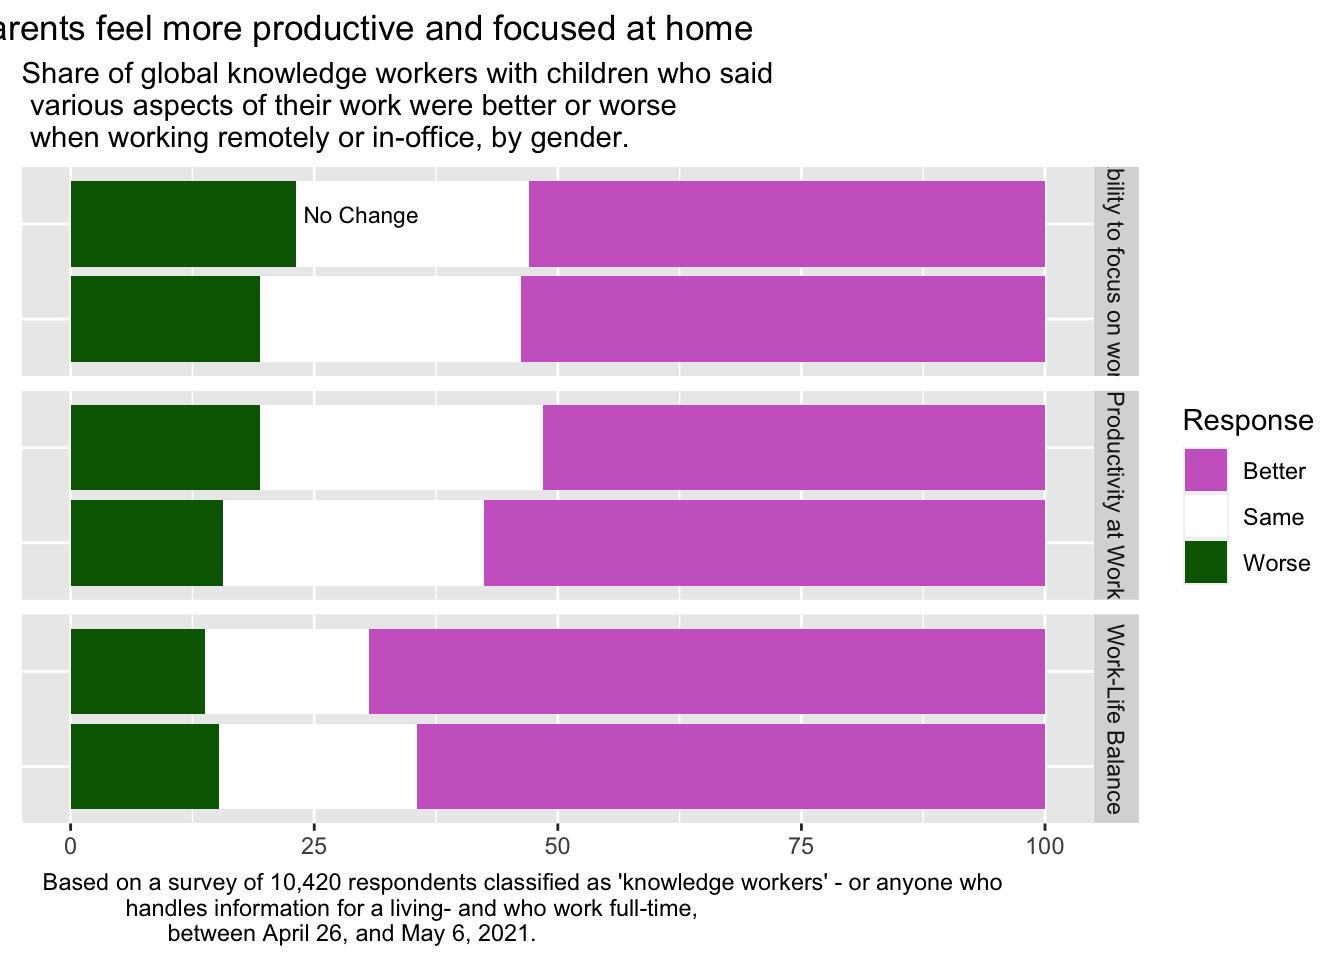
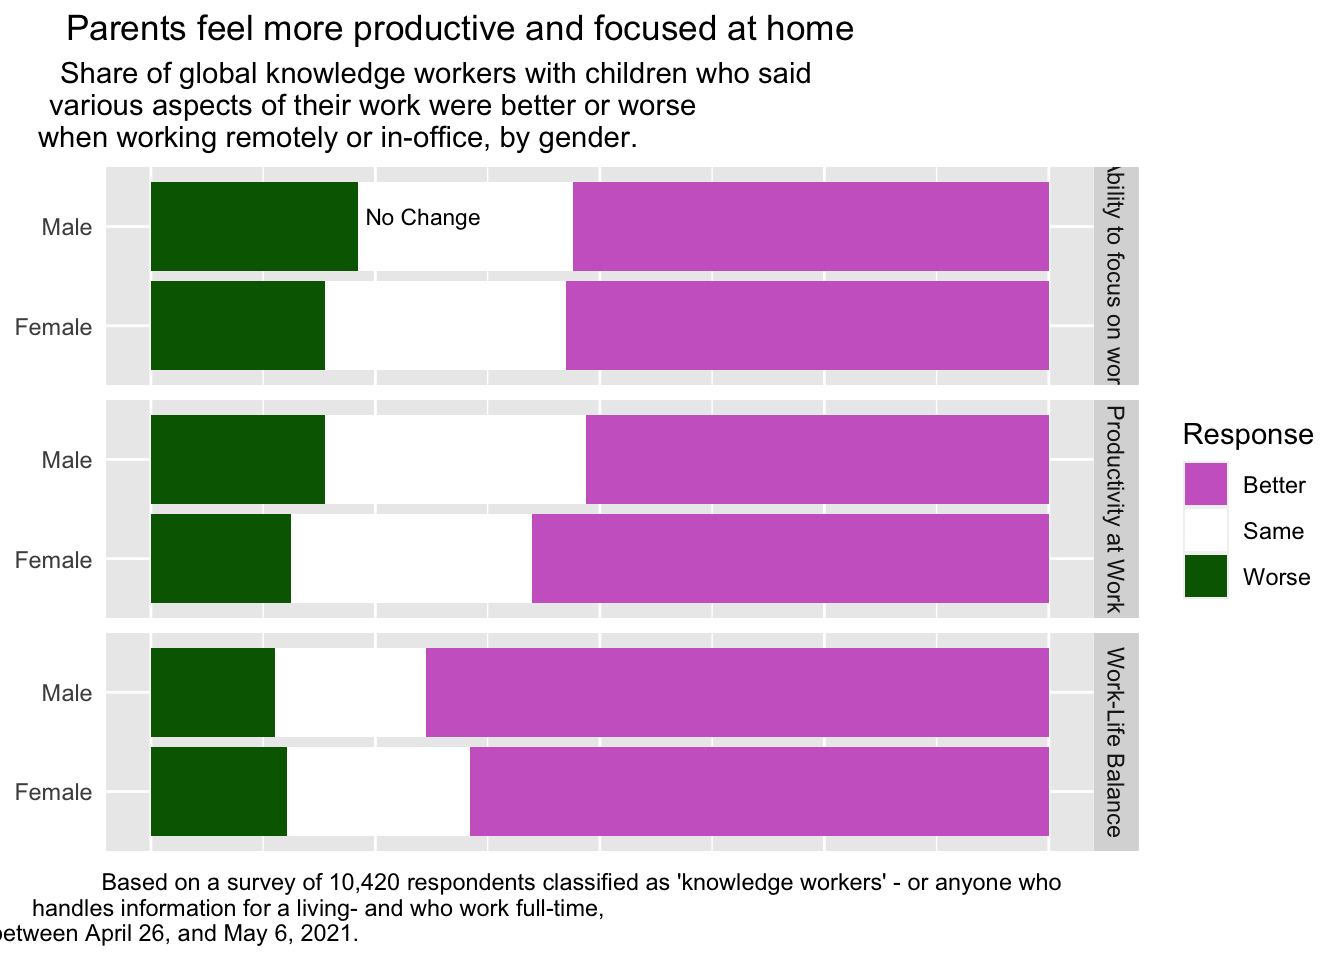
viz3

Changed region(s): [[0.0, 0.0, 0.875, 1.0], [0.875, 0.4062, 1.0, 0.625]]

diff --git a/docs/visualization_exercise.html b/docs/visualization_exercise.html
@@ -269,24 +269,26 @@ The following object is masked from 'package:readr':
 <p><img src="visualization_exercise_files/figure-html/unnamed-chunk-2-1.png" class="img-fluid" width="672"></p>
 </div>
 </div>
-<p>##Lets change the colors and resort the data to fix.</p>
+</section>
+<section id="lets-change-the-colors-and-play-around-with-those-titles-and-axes" class="level2">
+<h2 class="anchored" data-anchor-id="lets-change-the-colors-and-play-around-with-those-titles-and-axes">##Lets change the colors and play around with those titles and axes</h2>
 <div class="cell">
 <div class="sourceCode cell-code" id="cb9"><pre class="sourceCode r code-with-copy"><code class="sourceCode r"><span id="cb9-1"><a href="#cb9-1" aria-hidden="true" tabindex="-1"></a><span class="co">#Lets add the caption </span></span>
 <span id="cb9-2"><a href="#cb9-2" aria-hidden="true" tabindex="-1"></a><span class="fu">library</span>(shadowtext)</span>
-<span id="cb9-3"><a href="#cb9-3" aria-hidden="true" tabindex="-1"></a></span>
-<span id="cb9-4"><a href="#cb9-4" aria-hidden="true" tabindex="-1"></a></span>
-<span id="cb9-5"><a href="#cb9-5" aria-hidden="true" tabindex="-1"></a>p2 <span class="ot">&lt;-</span> p <span class="sc">+</span> <span class="fu">geom_shadowtext</span>(<span class="at">data=</span><span class="fu">subset</span>(Visualization_Data, Response<span class="sc">==</span><span class="st">"Same"</span> <span class="sc">&amp;</span> Gender<span class="sc">==</span><span class="st">"Male"</span> <span class="sc">&amp;</span> Question<span class="sc">==</span><span class="st">"Ability to focus on work"</span>),<span class="fu">aes</span>(<span class="at">y =</span> Percent, <span class="at">x =</span> Gender, <span class="at">label=</span><span class="st">"No Change"</span>), <span class="at">hjust=</span><span class="dv">0</span>, <span class="at">nudge_x=</span><span class="fl">0.1</span>,<span class="at">color=</span><span class="st">"black"</span>,<span class="at">bg.colour=</span><span class="st">"white"</span>, <span class="at">size=</span><span class="dv">3</span>) <span class="sc">+</span>   <span class="fu">scale_fill_manual</span>(<span class="at">values=</span><span class="fu">c</span>(<span class="st">"orchid3"</span>,</span>
-<span id="cb9-6"><a href="#cb9-6" aria-hidden="true" tabindex="-1"></a>                             <span class="st">"white"</span>,</span>
-<span id="cb9-7"><a href="#cb9-7" aria-hidden="true" tabindex="-1"></a>                             <span class="st">"darkgreen"</span>)) <span class="sc">+</span> <span class="fu">theme</span>(<span class="at">axis.title.x=</span><span class="fu">element_blank</span>(), <span class="at">axis.title.y=</span><span class="fu">element_blank</span>(), <span class="at">plot.title=</span><span class="fu">element_text</span>(<span class="at">hjust=</span><span class="sc">-</span><span class="fl">0.2</span>), <span class="at">plot.caption=</span><span class="fu">element_text</span>(<span class="at">hjust =</span> <span class="fl">0.2</span>), <span class="at">axis.text.y=</span><span class="fu">element_blank</span>(), <span class="at">axis.ticks.y=</span><span class="fu">element_blank</span>())</span>
-<span id="cb9-8"><a href="#cb9-8" aria-hidden="true" tabindex="-1"></a></span>
-<span id="cb9-9"><a href="#cb9-9" aria-hidden="true" tabindex="-1"></a></span>
-<span id="cb9-10"><a href="#cb9-10" aria-hidden="true" tabindex="-1"></a>p2</span></code><button title="Copy to Clipboard" class="code-copy-button"><i class="bi"></i></button></pre></div>
+<span id="cb9-3"><a href="#cb9-3" aria-hidden="true" tabindex="-1"></a>p2 <span class="ot">&lt;-</span> p <span class="sc">+</span> <span class="fu">geom_shadowtext</span>(<span class="at">data=</span><span class="fu">subset</span>(Visualization_Data, Response<span class="sc">==</span><span class="st">"Same"</span> <span class="sc">&amp;</span> Gender<span class="sc">==</span><span class="st">"Male"</span> <span class="sc">&amp;</span> Question<span class="sc">==</span><span class="st">"Ability to focus on work"</span>),<span class="fu">aes</span>(<span class="at">y =</span> Percent, <span class="at">x =</span> Gender, <span class="at">label=</span><span class="st">"No Change"</span>), <span class="at">hjust=</span><span class="dv">0</span>, <span class="at">nudge_x=</span><span class="fl">0.1</span>,<span class="at">color=</span><span class="st">"black"</span>,<span class="at">bg.colour=</span><span class="st">"white"</span>, <span class="at">size=</span><span class="dv">3</span>) <span class="sc">+</span>   <span class="fu">scale_fill_manual</span>(<span class="at">values=</span><span class="fu">c</span>(<span class="st">"orchid3"</span>,</span>
+<span id="cb9-4"><a href="#cb9-4" aria-hidden="true" tabindex="-1"></a>                             <span class="st">"white"</span>,</span>
+<span id="cb9-5"><a href="#cb9-5" aria-hidden="true" tabindex="-1"></a>                             <span class="st">"darkgreen"</span>)) <span class="sc">+</span> <span class="fu">theme</span>(<span class="at">axis.title.x=</span><span class="fu">element_blank</span>(), <span class="at">axis.title.y=</span><span class="fu">element_blank</span>(), <span class="at">plot.title=</span><span class="fu">element_text</span>(<span class="at">hjust=</span><span class="sc">-</span><span class="fl">0.2</span>), <span class="at">plot.subtitle=</span><span class="fu">element_text</span>(<span class="at">hjust=</span><span class="sc">-</span><span class="fl">0.2</span>),  <span class="at">plot.caption=</span><span class="fu">element_text</span>(<span class="at">hjust =</span> <span class="sc">-</span><span class="fl">0.2</span>), <span class="at">axis.text.x=</span><span class="fu">element_blank</span>(), <span class="at">axis.ticks.x=</span><span class="fu">element_blank</span>(), <span class="at">axis.ticks.y=</span><span class="fu">element_blank</span>())</span>
+<span id="cb9-6"><a href="#cb9-6" aria-hidden="true" tabindex="-1"></a></span>
+<span id="cb9-7"><a href="#cb9-7" aria-hidden="true" tabindex="-1"></a></span>
+<span id="cb9-8"><a href="#cb9-8" aria-hidden="true" tabindex="-1"></a>p2</span></code><button title="Copy to Clipboard" class="code-copy-button"><i class="bi"></i></button></pre></div>
 <div class="cell-output-display">
 <p><img src="visualization_exercise_files/figure-html/unnamed-chunk-3-1.png" class="img-fluid" width="672"></p>
 </div>
 </div>
-<p>##Not bad…</p>
-<p>Getting there. Still more to do! How to get those pesky titles on top??</p>
+</section>
+<section id="not-bad" class="level2">
+<h2 class="anchored" data-anchor-id="not-bad">##Not bad…</h2>
+<p>Getting there. Still more to do! How to get those pesky titles on top?? And need to add some value captions… Yikes, this one looked simple but its got a lot! And YIKES those titles, subtitles, and captions are not aligned.</p>
 
 
 </section>
